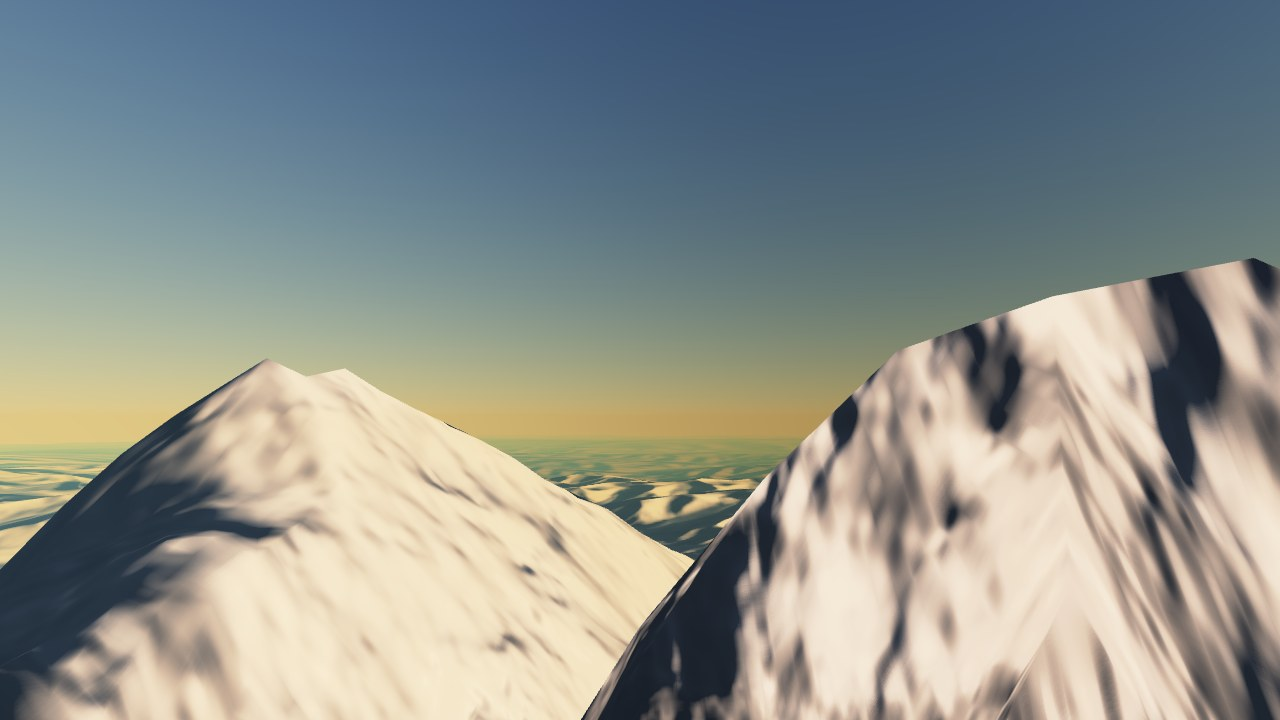
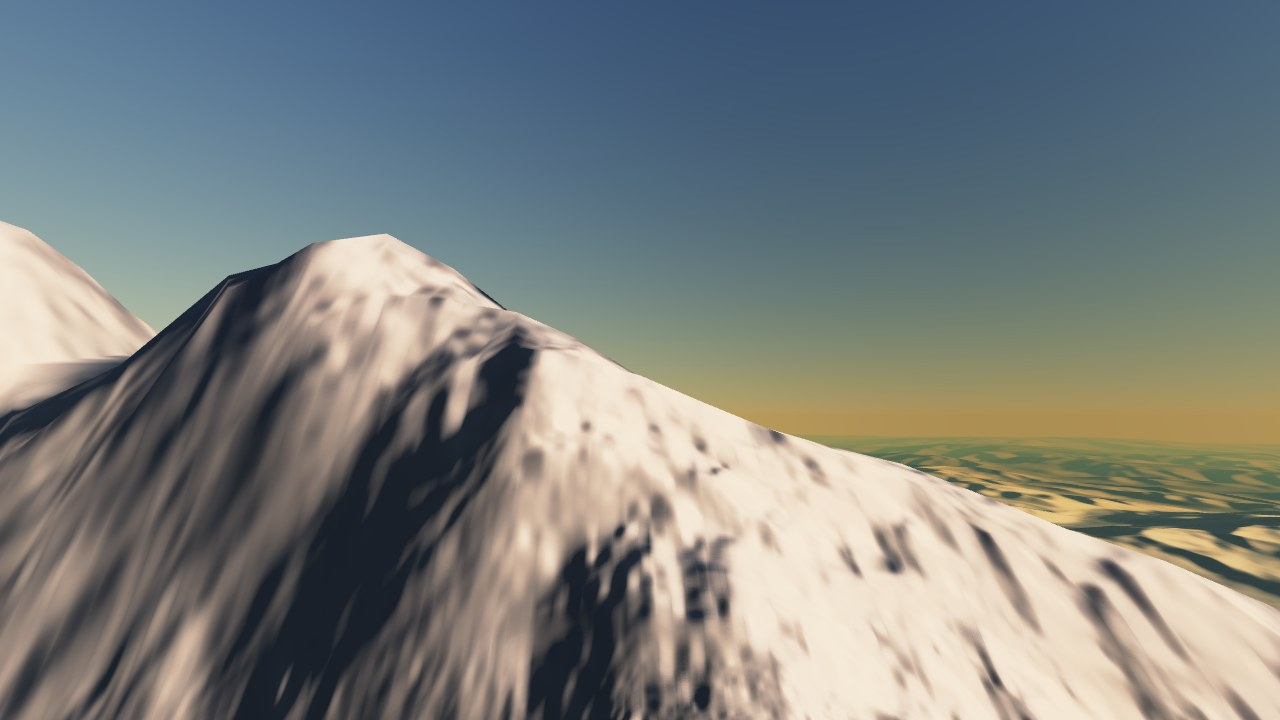
Stop summits rippling in flight over Earth's finer-elevation regions
Inside the regions with ~90 m elevations, the procedural slopes finer than
the data were still tuned for the 1 arc-minute data, raising spires that
changed shape with the vertex spacing. Only octaves finer than the region's
data are added now, on the GPU heights, the shading and the CPU heights.

diff --git a/src/shaders.h b/src/shaders.h
@@ -286,15 +286,18 @@ float det2Mix(vec2 uv, float s, float h, out float w2, out vec2 l2) {
 }
 // 1 分角より細かい山肌（手続き。地形の格子の高さと陰影の両方に使う）。x: 高さ（単位球の長さ）, yzw: 勾配。
 // 振幅は標高の傾き s（tan）で決め、急な山ほど険しく、平野は穏やかにする。h: 標高 m（海面の近くでは 0 へ）。
-// sp: 頂点・画素の間隔（単位球の長さ）。それより細かいオクターブは省く
-vec4 earthBumps(vec3 p, float s, float h, float sp, int oct, vec3 o) {
+// sp: 頂点・画素の間隔（単位球の長さ）。それより細かいオクターブは省く。fLo: 標高データにある周波数（地域だけのもっと
+// 細かい標高の中では、それより粗いオクターブは実際の地形と重なるので省く。bandW）
+vec4 earthBumps(vec3 p, float s, float h, float sp, float fLo, int oct, vec3 o) {
     float a = (0.003 + 0.6 * min(s, 1.0)) / 3200.0 * clamp(h / 50.0, 0.0, 1.0), f = 3200.0;
     vec4 r = vec4(0.0);
     for (int i = 0; i < oct; i++) {
-        float w = 1.0 - smoothstep(0.15, 0.5, f * sp);
-        if (w <= 0.0 || a <= 0.0) break;
-        vec4 n = noised(p * f + o + float(i) * 7.13);
-        r += a * w * vec4(n.x * 2.0 - 1.0, n.yzw * 2.0 * f);
+        if (f * sp >= 0.5 || a <= 0.0) break;
+        float w = bandW(f, sp, fLo);
+        if (w > 0.0) {
+            vec4 n = noised(p * f + o + float(i) * 7.13);
+            r += a * w * vec4(n.x * 2.0 - 1.0, n.yzw * 2.0 * f);
+        }
         a *= 0.5; f *= 2.03;
     }
     return r;
@@ -373,9 +376,9 @@ float bumpAt(vec3 q, float L, float fLo, vec3 o) {
     if (terrA.w < 1.5) {   // 地球の山肌（earthBumps の値を振幅で割ったもの）
         float r = 0.0, a = 1.0, f = 3200.0;
         for (int i = 0; i < 7; i++) {
-            float w = 1.0 - smoothstep(0.15, 0.5, f * L);
-            if (w <= 0.0) break;
-            r += a * w * (vnoise(q * f + o + float(i) * 7.13) * 2.0 - 1.0);
+            if (f * L >= 0.5) break;
+            float w = bandW(f, L, fLo);
+            if (w > 0.0) r += a * w * (vnoise(q * f + o + float(i) * 7.13) * 2.0 - 1.0);
             a *= 0.5; f *= 2.03;
         }
         return r;
@@ -436,7 +439,8 @@ float earthDetailHeight(vec3 d, float sp, float hm) {
     vec3 o = vec3(params.z, params.z * 1.37, params.z * 0.71);
     float sl = mix(detSlope(l, lat, EARTH_RM), w2 > 0.0 ? det2Slope(l2, lat, EARTH_RM) : 0.0, w2);
     float a = (0.003 + 0.6 * min(sl, 1.0)) / 3200.0 * clamp(hb / 50.0, 0.0, 1.0);   // earthBumps の振幅
-    return max(0.0, hb + a * vertexBumps(d, sp, 20.0 / EARTH_RM, 0.0, o) * EARTH_RM * w);
+    float fLo = mix(detB.y, detD.y, w2) / 6.2831853;
+    return max(0.0, hb + a * vertexBumps(d, sp, 20.0 / EARTH_RM, fLo, o) * EARTH_RM * w);
 }
 // 地球以外: カメラの周り（月・火星の窓の中）は細かい標高。データより細かい手続きの起伏（クレーター・山肌）を足した高さ m
 float bodyHeight(vec3 d, float sp, float hm) {
@@ -1164,8 +1168,10 @@ vec4 earthTex(vec3 p, vec3 o, float ndlG, out vec3 base, out float specMask, out
     float rough = (0.03 + 0.3 * clamp(hm / 4000.0, 0.0, 1.0)) / 1400.0;
     vec4 h = vec4(hm / R * EXAG, grad) * land;
     // 窓の中は 1 分角より細かい山肌（地形の格子の高さと同じ。陰影は画素まで細かく）
+    vec2 l2;
+    float fLo = dw > 0.0 ? mix(detB.y, detD.y, det2Weight(uv, l2)) / (2.0 * PI) : 0.0;
     if (land > 0.0) h += mix(dw < 1.0 ? fbmD(p, 700.0, 18, 0.5, o) * rough : vec4(0.0),
-                             dw > 0.0 ? earthBumps(p, s, max(hm, 0.0), fw, 16, o) : vec4(0.0), dw) * land;
+                             dw > 0.0 ? earthBumps(p, s, max(hm, 0.0), fw, fLo, 16, o) : vec4(0.0), dw) * land;
     // 地表の色から素材を推定して細かい起伏を足す（土地被覆の実測ではなく色からの推定）: 明るい黄褐色は砂（砂丘 波長 120 m・800 m）、
     // 暗い緑は森（樹冠 約 8 m と 4 m の凹凸。くぼみは暗い）、白い所は雪と氷（風に沿って伸びた風紋 約 20 m と 5 m）
     if (land > 0.0) {

diff --git a/src/app/bodies.h b/src/app/bodies.h
@@ -307,8 +307,9 @@ template <class F> static float BumpLattice(V3 p, float L, F at) {
     return Mixf(Mixf(Mixf(v(0, 0, 0), v(1, 0, 0), fx), Mixf(v(0, 1, 0), v(1, 1, 0), fx), fy),
                 Mixf(Mixf(v(0, 0, 1), v(1, 0, 1), fx), Mixf(v(0, 1, 1), v(1, 1, 1), fx), fy), fz);
 }
-// 地球の 1 分角より細かい山肌の高さ m（earthBumps の値）。p は単位球の点、s は傾き、h は標高 m。一番細かい格子点の段で求める
-static double EarthBumpsM(V3 p, double s, double h) {
+// 地球の 1 分角より細かい山肌の高さ m（earthBumps の値）。p は単位球の点、s は傾き、h は標高 m、fLo は標高データにある
+// 周波数（それより粗いオクターブは省く）。一番細かい格子点の段で求める
+static double EarthBumpsM(V3 p, double s, double h, float fLo) {
     const float seed = (float)(B_EARTH * 7.31), L = (float)(BUMP_MIN_M / 6378137.0);
     double a = (0.003 + 0.6 * std::min(s, 1.0)) / 3200.0 * std::max(0.0, std::min(1.0, h / 50.0));
     if (a <= 0) return 0;
@@ -316,9 +317,9 @@ static double EarthBumpsM(V3 p, double s, double h) {
     float n = BumpLattice(p, L, [&](F3 q) {
         float r = 0, am = 1, f = 3200.0f;
         for (int i = 0; i < 7; i++) {
-            float w = 1 - Smoothf(0.15f, 0.5f, f * L);
-            if (w <= 0) break;
-            r += am * w * (NoiseValue(q * f + o + (float)i * 7.13f) * 2 - 1);
+            if (f * L >= 0.5f) break;
+            float w = BandW(f, L, fLo);
+            if (w > 0) r += am * w * (NoiseValue(q * f + o + (float)i * 7.13f) * 2 - 1);
             am *= 0.5f;
             f *= 2.03f;
         }
@@ -426,7 +427,10 @@ static double TerrainKm(const Body& b, V3 o) {
         return w2 > 0 ? s * (1 - w2) + P->Slope(plx, ply, lat, R) * w2 : s;
     };
     if (T.earth) {
-        if (w > 0) km = std::max(0.0, km * 1000 + EarthBumpsM(p, slope(6378137.0), km * 1000) * w) / 1000;
+        if (w > 0) {
+            float fLo = (float)((w2 > 0 ? D->H * (1 - w2) + P->H * w2 : D->H) / (2 * PI));
+            km = std::max(0.0, km * 1000 + EarthBumpsM(p, slope(6378137.0), km * 1000, fLo) * w) / 1000;
+        }
     } else if (T.bumps) {   // データより細かい手続きの起伏
         double R = b.d.radius * 1000, fLo = T.h / (2 * PI) * (1 - w) + (D ? D->H / (2 * PI) * w : 0);
         if (w2 > 0) fLo = fLo * (1 - w2) + P->H / (2 * PI) * w2;

diff --git a/README.en.md b/README.en.md
@@ -343,7 +343,7 @@ On the "Apollo program" page of the event list (K), pick a flight and press Ente
 - **Surfaces**: Jupiter carries Cassini's global map and is turned so that the Great Red Spot sits at its observed longitude for the date (System II; records since 1962, then a drift of 16° per year). Saturn also carries a Cassini global map (August 2011, showing the aftermath of the great northern storm); its poles and the band from the equator to 17° S, hidden by the ring shadow, are procedural clouds. Mercury, Mars, Ceres, Vesta, Pluto and the moons Io, Europa, Ganymede, Callisto, Mimas, Enceladus, Tethys, Dione, Rhea, Iapetus, Miranda, Ariel, Umbriel, Titania, Oberon, Triton and Charon carry real maps from spacecraft images (Olympus Mons and Valles Marineris, Pluto's heart and Enceladus's tiger stripes appear where they really are). Mars also gets relief shading from MOLA elevations. Near the ground, a few regions such as famous mountains (around Everest, Fuji, Mont Blanc and the Matterhorn, Kilimanjaro and Denali on Earth; the Apollo 15 and 17 landing sites, Mons Huygens and Tycho on the Moon; Olympus Mons and the Tharsis Montes on Mars) use still finer elevations (about 60–206 m). Mercury, Mars, Ceres, Vesta and Pluto rotate according to the IAU prime meridians, and the moons always keep the same face toward their planet. Areas that were never imaged (the northern hemispheres of the Uranian moons and parts of Pluto, Triton and Charon) and detail finer than the maps are filled in procedurally. Iapetus's map has its brightness flattened, so its bright and dark hemispheres are painted procedurally. Uranus, Neptune and the clouds of Venus keep procedural patterns, because no freely redistributable global maps could be found (and Uranus and Venus's clouds show almost no features in visible light). Below the cloud layer 70 km above Venus you come down onto a surface from Magellan elevations: inside the clouds is white fog, below them a uniform overcast sky, and the ground disappears into the thick haze within a few km (the brightness and haze density are estimates). The other bodies are generated procedurally in shaders; finer patterns and relief appear as you get closer, so surfaces stay detailed even near the ground. The ground on Earth and Mars is lit by sunlight weakened on its way through the atmosphere and by the light it scatters down from the sky (more on surfaces facing up; Rayleigh scattering and aerosols on Earth, and on Mars dust that dims sunlight about equally in every color and absorbs blue; the optical depths and the like are estimates). Midday colors are unchanged, shade takes the color of the sky, and mornings and evenings turn red on Earth and reddish brown on Mars. Near the ground, the weaker the light falling on the ground, the brighter the ground and the ship are shown (like the eye adapting: the light to the power -0.7, at most 2.2 times; bright parts level off so they do not blow out, and the sky and haze are left as they are; not around sunset or from space). When the Sun is lower than 20°, mountains and crater rims cast shadows, found by tracing the elevations toward the Sun (per vertex of the terrain grid near the ground and interpolated; skylight still reaches the shadows). The Mars map (Viking MDIM 2.1 colored by NASA Ames) paints the dark regions bluish gray, so only its hue is replaced with estimated reflectance colors for bright dust and dark sand by brightness. Airless bodies are lit with the opposition effect, which brightens the ground when the Sun is behind you because the shadows between grains are hidden (Hapke's shadow-hiding term, with the lunar values B0 = 1 and h = 0.06 used for all of them). Earth's ice sheets, snow and sea ice and the Martian polar caps (the white parts of the maps) get forward scattering that brightens them when you look toward the Sun at a low angle, plus a sheen, and the Martian caps get no small procedural craters. Near the ground, relief finer than the maps is shaded by surface material: on the Moon, boulders (1–12 m across) in proportion to Diviner's rock abundance; on Mars, from the TES thermal inertia, subdued small relief where there is dust and boulders on rocky ground, with ripples (25 m wavelength) and dunes (300 m, without small craters) only in the dune fields of the USGS dune database (about 0.7% of the surface); the small Martian craters are mostly shallow and worn, filled and eroded by dust and sand (flat floors, low rims, fewer the smaller they are), and the ground gets brightness variations finer than the map (dark sand gathering in hollows, dark floors of filled craters, dark boulders; uniform where dust has settled), and Martian cliffs (slopes past 7° to 19°) become bare rock with layered steps every 250 m of elevation and ridges and gullies, without craters or dust (the fractions, strengths and shapes are estimates from the look of images); on the moons and Pluto, small craters follow the age of the surface (none on Io, in the south polar terrain of Enceladus or in Sputnik Planitia, very few on Europa, Titan and Triton, worn and shallow on Callisto), and Europa's double ridges, the ridges and grooves of Ganymede's bright terrain and of Enceladus's south polar terrain, the convection cells of Sputnik Planitia and the dimples of Triton's cantaloupe terrain are drawn as shading (sizes and heights are estimates from spacecraft images); on Earth, judged from the map colors, dunes (120 m and 800 m) in sand deserts, a bumpy canopy in forests and wind-carved ridges on snow and ice (where each material is comes from measurements or estimates; shapes finer than a few hundred meters are procedural, sized after real ones)
 - **Earth**: built from real NASA data — continents, coastlines, elevation (relief shading), ocean depth (shallow-water color), sea ice and city lights at night (about 10 km resolution; the land elevations in an area about 3,800 km across around the camera are about 1.85 km; finer detail is filled in procedurally). Its rotation follows Greenwich sidereal time, so the regions in daylight and the lit cities at night match the PC clock. The surface colors follow the date using all 12 months of Blue Marble (winter snow, green rainy seasons and so on), and clouds come from NASA's global cloud image (one day's distribution) with finer streaks added
 - **Moon**: real NASA data (LRO color and LOLA elevation, about 3–5 km resolution; the elevations in an area about 3,900 km across around the camera are about 1.9 km). Maria, craters and ray systems are where they really are; smaller craters are filled in procedurally
-- **Surface heights**: within 8 body radii of Earth, the Moon, Mars, Mercury, Venus, Ceres, Vesta, Pluto, Charon and Titan, the elevation data is drawn as 3D terrain at its true height (1x). Altitude and surface collisions are measured from the terrain, and the Apollo lunar modules and the descent stages left on the Moon sit on it. The data spacing is about 1.85 km for Earth (on land around the camera; about 10 km farther away), about 1.9 km for the Moon (around the camera; about 5 km farther away), about 3.7 km for Mars (around the camera; about 15 km farther away), about 7.5 km for Mercury, about 19 km for Venus, about 3 km for Ceres, about 1.8 km for Vesta, about 3.6 km for Pluto and Charon and about 11 km for Titan, and Earth's oceans sit at sea level. Relief finer than the data is added procedurally to the shape of the terrain (it does not match the real terrain): on Earth, slopes that follow the steepness of the terrain (rugged on steep mountains, gentle on plains); on the other bodies, the same craters and slopes as in the surface shading (the lunar maria have fewer craters and are flat, and Titan's lakes and seas are flat). Altitude and collisions are measured from the same shape. The shape is detailed down to the spacing of the terrain grid's vertices, which gets coarser away from the camera. The relief is computed at lattice points fixed to the ground and interpolated, so its shape does not ripple in flight. Mount Fuji (about 3,360 m in the data) and Everest (about 8,210 m) stand as 3D mountains. Vesta gets its lumpy shape with the Rheasilvia basin. Pluto and Charon only have elevations for the hemisphere New Horizons saw up close; the rest is an estimated height joined smoothly from the surroundings
+- **Surface heights**: within 8 body radii of Earth, the Moon, Mars, Mercury, Venus, Ceres, Vesta, Pluto, Charon and Titan, the elevation data is drawn as 3D terrain at its true height (1x). Altitude and surface collisions are measured from the terrain, and the Apollo lunar modules and the descent stages left on the Moon sit on it. The data spacing is about 1.85 km for Earth (on land around the camera; about 10 km farther away), about 1.9 km for the Moon (around the camera; about 5 km farther away), about 3.7 km for Mars (around the camera; about 15 km farther away), about 7.5 km for Mercury, about 19 km for Venus, about 3 km for Ceres, about 1.8 km for Vesta, about 3.6 km for Pluto and Charon and about 11 km for Titan, and Earth's oceans sit at sea level. Relief finer than the data is added procedurally to the shape of the terrain (it does not match the real terrain): on Earth, slopes that follow the steepness of the terrain (rugged on steep mountains, gentle on plains; in the regions such as famous mountains, only what is finer than their data); on the other bodies, the same craters and slopes as in the surface shading (the lunar maria have fewer craters and are flat, and Titan's lakes and seas are flat). Altitude and collisions are measured from the same shape. The shape is detailed down to the spacing of the terrain grid's vertices, which gets coarser away from the camera. The relief is computed at lattice points fixed to the ground and interpolated, so its shape does not ripple in flight. Mount Fuji (about 3,360 m in the data) and Everest (about 8,210 m) stand as 3D mountains. Vesta gets its lumpy shape with the Rheasilvia basin. Pluto and Charon only have elevations for the hemisphere New Horizons saw up close; the rest is an estimated height joined smoothly from the surroundings
 - **Music**: plays a piece for the nearest body: Holst's *The Planets* for the planets (the parent planet's movement near its moons), Grieg's "Morning Mood" for the Sun, the first movement of Beethoven's "Pastoral" Symphony for Earth and Debussy's "Clair de lune" for the Moon. It gets louder as you approach and fades out at the edge of the sphere of influence (1 AU for the Sun). Tracks crossfade when they change and resume where they left off when you return. Nothing plays near Pluto (the later Pluto movement by another composer is still under copyright), nor near the dwarf planets, asteroids and comets
 - **Spacecraft around Earth**: the International Space Station and the Hubble Space Telescope are computed from CelesTrak orbital elements (TLE of 28 October 2026), including the drift of the orbital plane caused by Earth's oblateness (within about 35 km of Horizons). They drift further off the farther you go from that epoch: the ISS by hundreds of km within days, losing its position along the orbit within months. The James Webb Space Telescope follows its JPL Horizons trajectory around the L2 point 1.5 million km from Earth (until October 2031). Select them with Tab and warp with G
 - **Gravity mode**: toggled in the settings or with the R key. You fall under the gravity of the Sun, the planets, the large moons and every body above 10²⁰ kg; when you switch it on or arrive by warp you are placed on a circular orbit around the current body. Body positions are updated every frame and held still within the frame while the motion is integrated in small steps (if time runs too fast for those steps, the time scale is held back automatically)

diff --git a/CHANGELOG.md b/CHANGELOG.md
@@ -4,6 +4,11 @@
 
 リリースの時は、その版の項目が GitHub のリリースノートにも載ります。
 
+## 2.69.1 (2026-11-23)
+
+- 地球の有名な山などの地域（約 90 m の標高）で、飛ぶと山頂の形が波打つのを直した。データより細かい山肌を足す手続きが地域の中でも 1 分角のデータ向けのまま（波長 2 km から。急な所では振幅 1 km 近く）で、実際には無い尖った峰ができ、その形が頂点の間隔に合わせて飛ぶたびに変わっていた。地域の中では、そのデータより細かい山肌だけを足す（地形の高さ・陰影・高度と衝突）。山頂はデータどおりの形になる。描画の速さは変わらない
+- README のエベレストの画像を撮り直した
+
 ## 2.69.0 (2026-11-23)
 
 - 有名な山などの地域だけ、地表の近くでさらに細かい標高を使うようにした（地形の格子の高さ・陰影・地形の影・高度と衝突。地域の縁はなじませる）。地球はエベレスト周辺・富士山・モンブランとマッターホルン・キリマンジャロ・デナリ（Copernicus DEM GLO-90、約 90 m）、月はアポロ 15 号のハドリー山とアペニン山脈・ホイヘンス山とアンペール山・アポロ 17 号のタウルス・リトロウ谷・ティコ（SLDEM2015、約 60 m）、火星はオリンポス山・タルシス三山（USGS の MOLA と HRSC の合成標高、約 206 m）。オリンポス断崖は実際の谷筋や段差の形が出る（これまでの 1 画素 約 1.85 km では、25° より急な所の 6 割がならされていた）。データは assets/earth_patches.bin・moon_patches.bin・mars_patches.bin（合わせて 42.5 MB。tools/make_detail_patches.py）。描画の速さは変わらない

diff --git a/CHANGELOG.en.md b/CHANGELOG.en.md
@@ -4,6 +4,11 @@
 
 The release workflow copies the section of the version being released into the GitHub release notes.
 
+## 2.69.1 (2026-11-23)
+
+- Fixed mountain summits rippling in flight over Earth's regions with finer elevations (about 90 m) such as famous mountains. The procedural slopes finer than the data stayed tuned for the 1 arc-minute data inside those regions too (from a 2 km wavelength, up to nearly 1 km high on steep ground), which raised spires that are not really there, and their shape changed with the vertex spacing as you flew. Inside the regions only slopes finer than their data are added now (to the terrain heights, the shading and the altitude and collisions), so the summits take the shape of the data. Drawing speed is unchanged
+- Retook the Everest image in the README
+
 ## 2.69.0 (2026-11-23)
 
 - A few regions such as famous mountains now use still finer elevations near the ground (for the terrain grid heights, shading, terrain shadows, altitude and collisions, blended in at the edges of each region). On Earth: around Everest, Fuji, Mont Blanc and the Matterhorn, Kilimanjaro and Denali (Copernicus DEM GLO-90, about 90 m); on the Moon: Mons Hadley and the Apennines at the Apollo 15 site, Mons Huygens and Mons Ampère, Taurus-Littrow at the Apollo 17 site, and Tycho (SLDEM2015, about 60 m); on Mars: Olympus Mons and the Tharsis Montes (the USGS MOLA/HRSC blended elevations, about 206 m). The Olympus Mons scarp now shows its real gullies and ledges (at the previous 1.85 km per pixel, 60% of the slopes steeper than 25° were smoothed away). The data is in assets/earth_patches.bin, moon_patches.bin and mars_patches.bin (42.5 MB in all; tools/make_detail_patches.py). Drawing speed is unchanged
